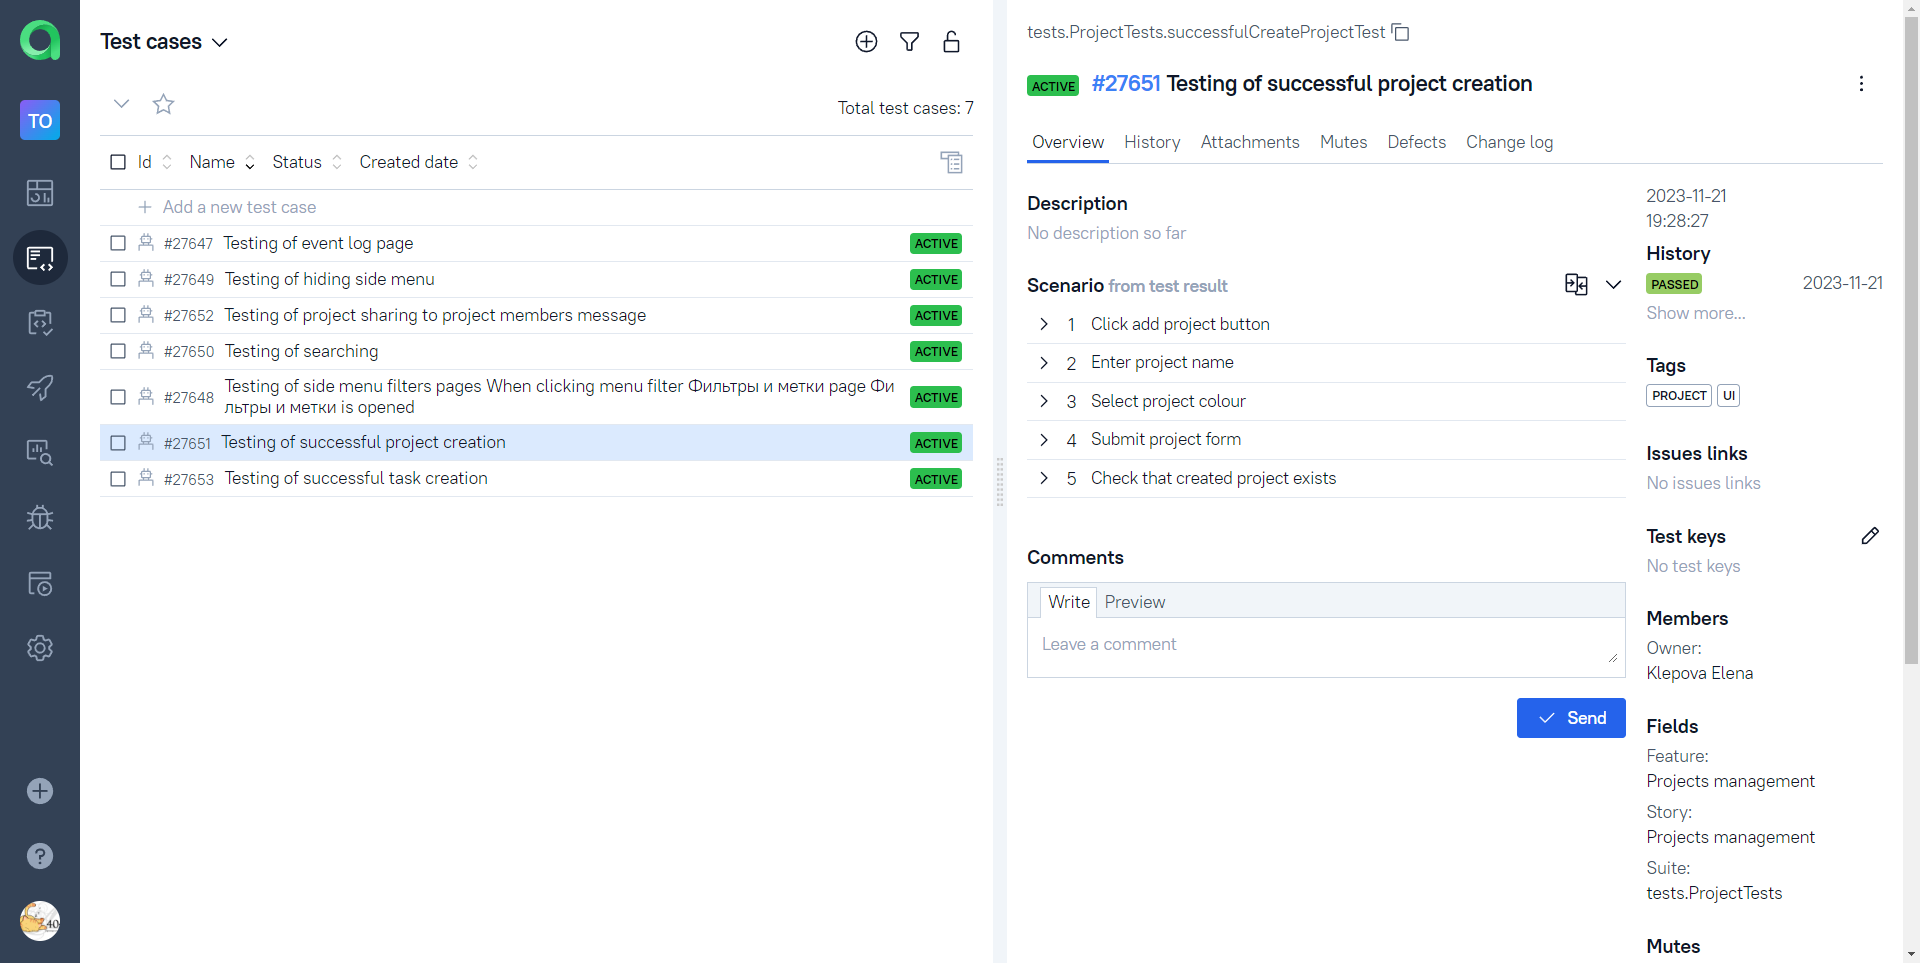
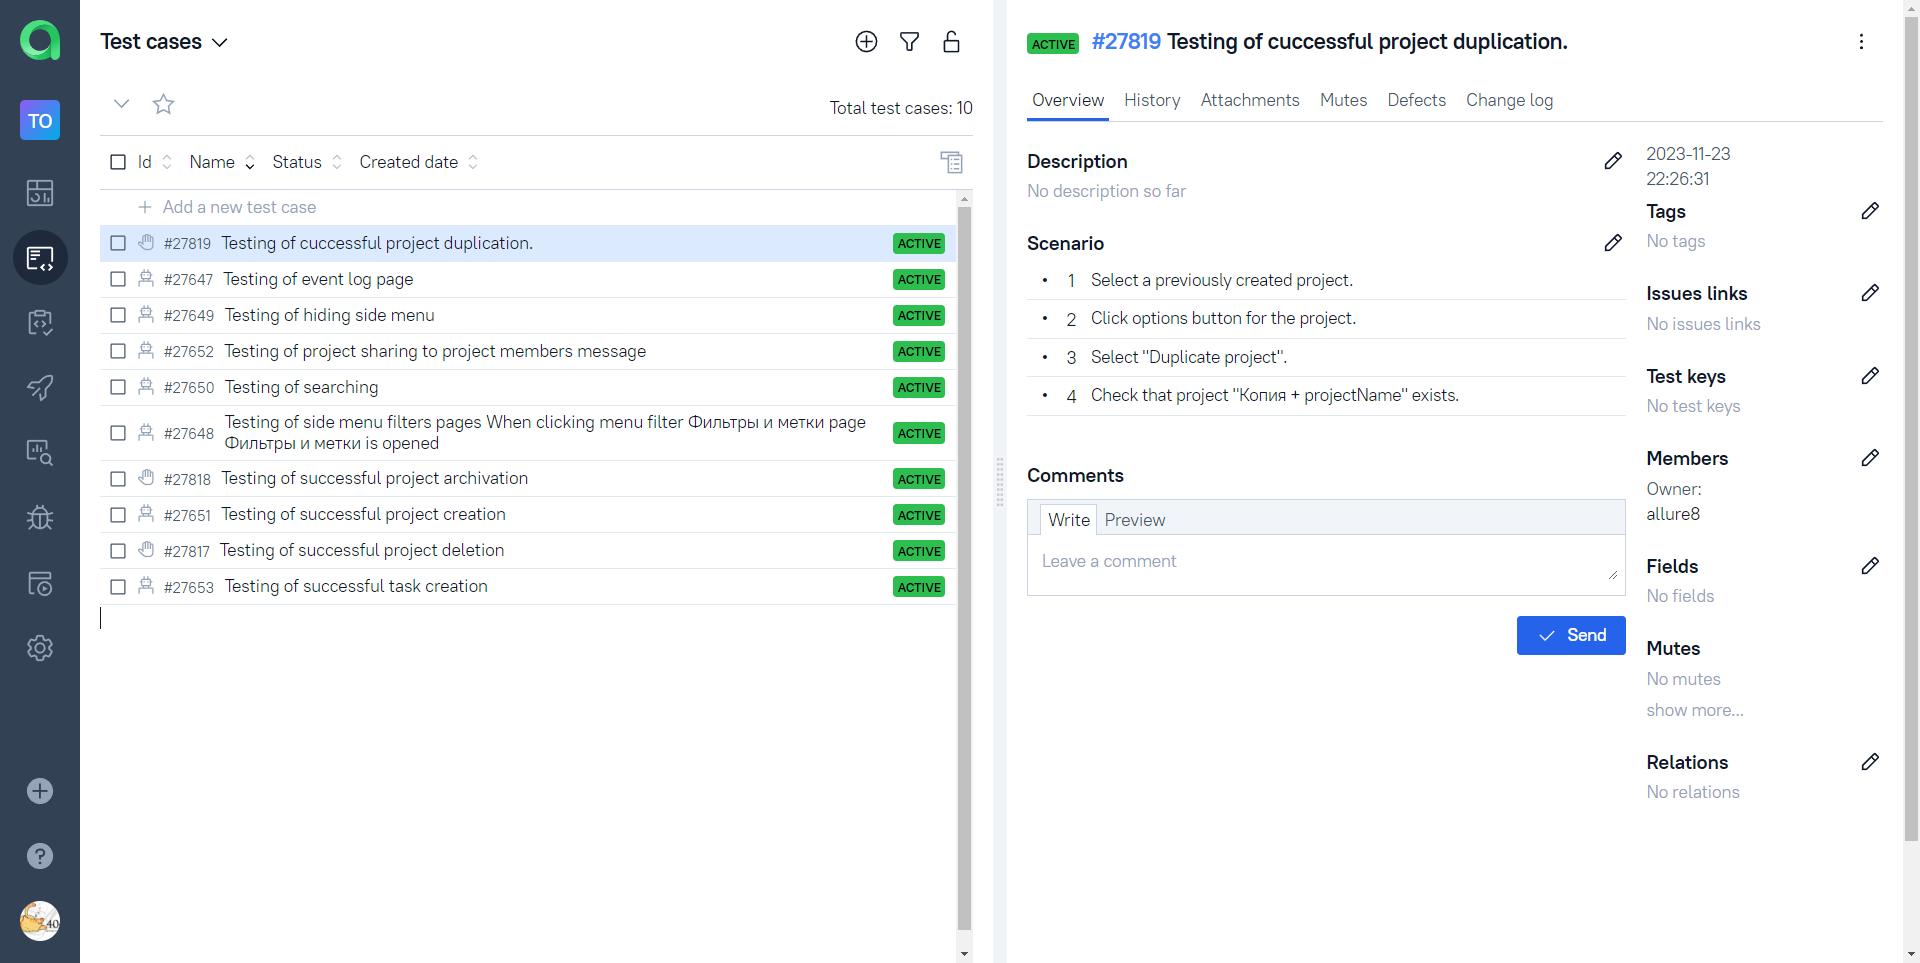
Todoist Project

diff --git a/README.md b/README.md
@@ -96,7 +96,7 @@ gradle clean test -Denv=remote
 <img title="Allure TestOps Dashboard" src="media/screens/Todoist_dashboard.png" width="850">  
 </p>  
 
-## 📄 Авто тест-кейсы
+## 📄 Авто и ручные тест-кейсы
 
 <p align="center">  
 <img title="Allure Tests" src="media/screens/Todoist_testcases.png" width="850">  
